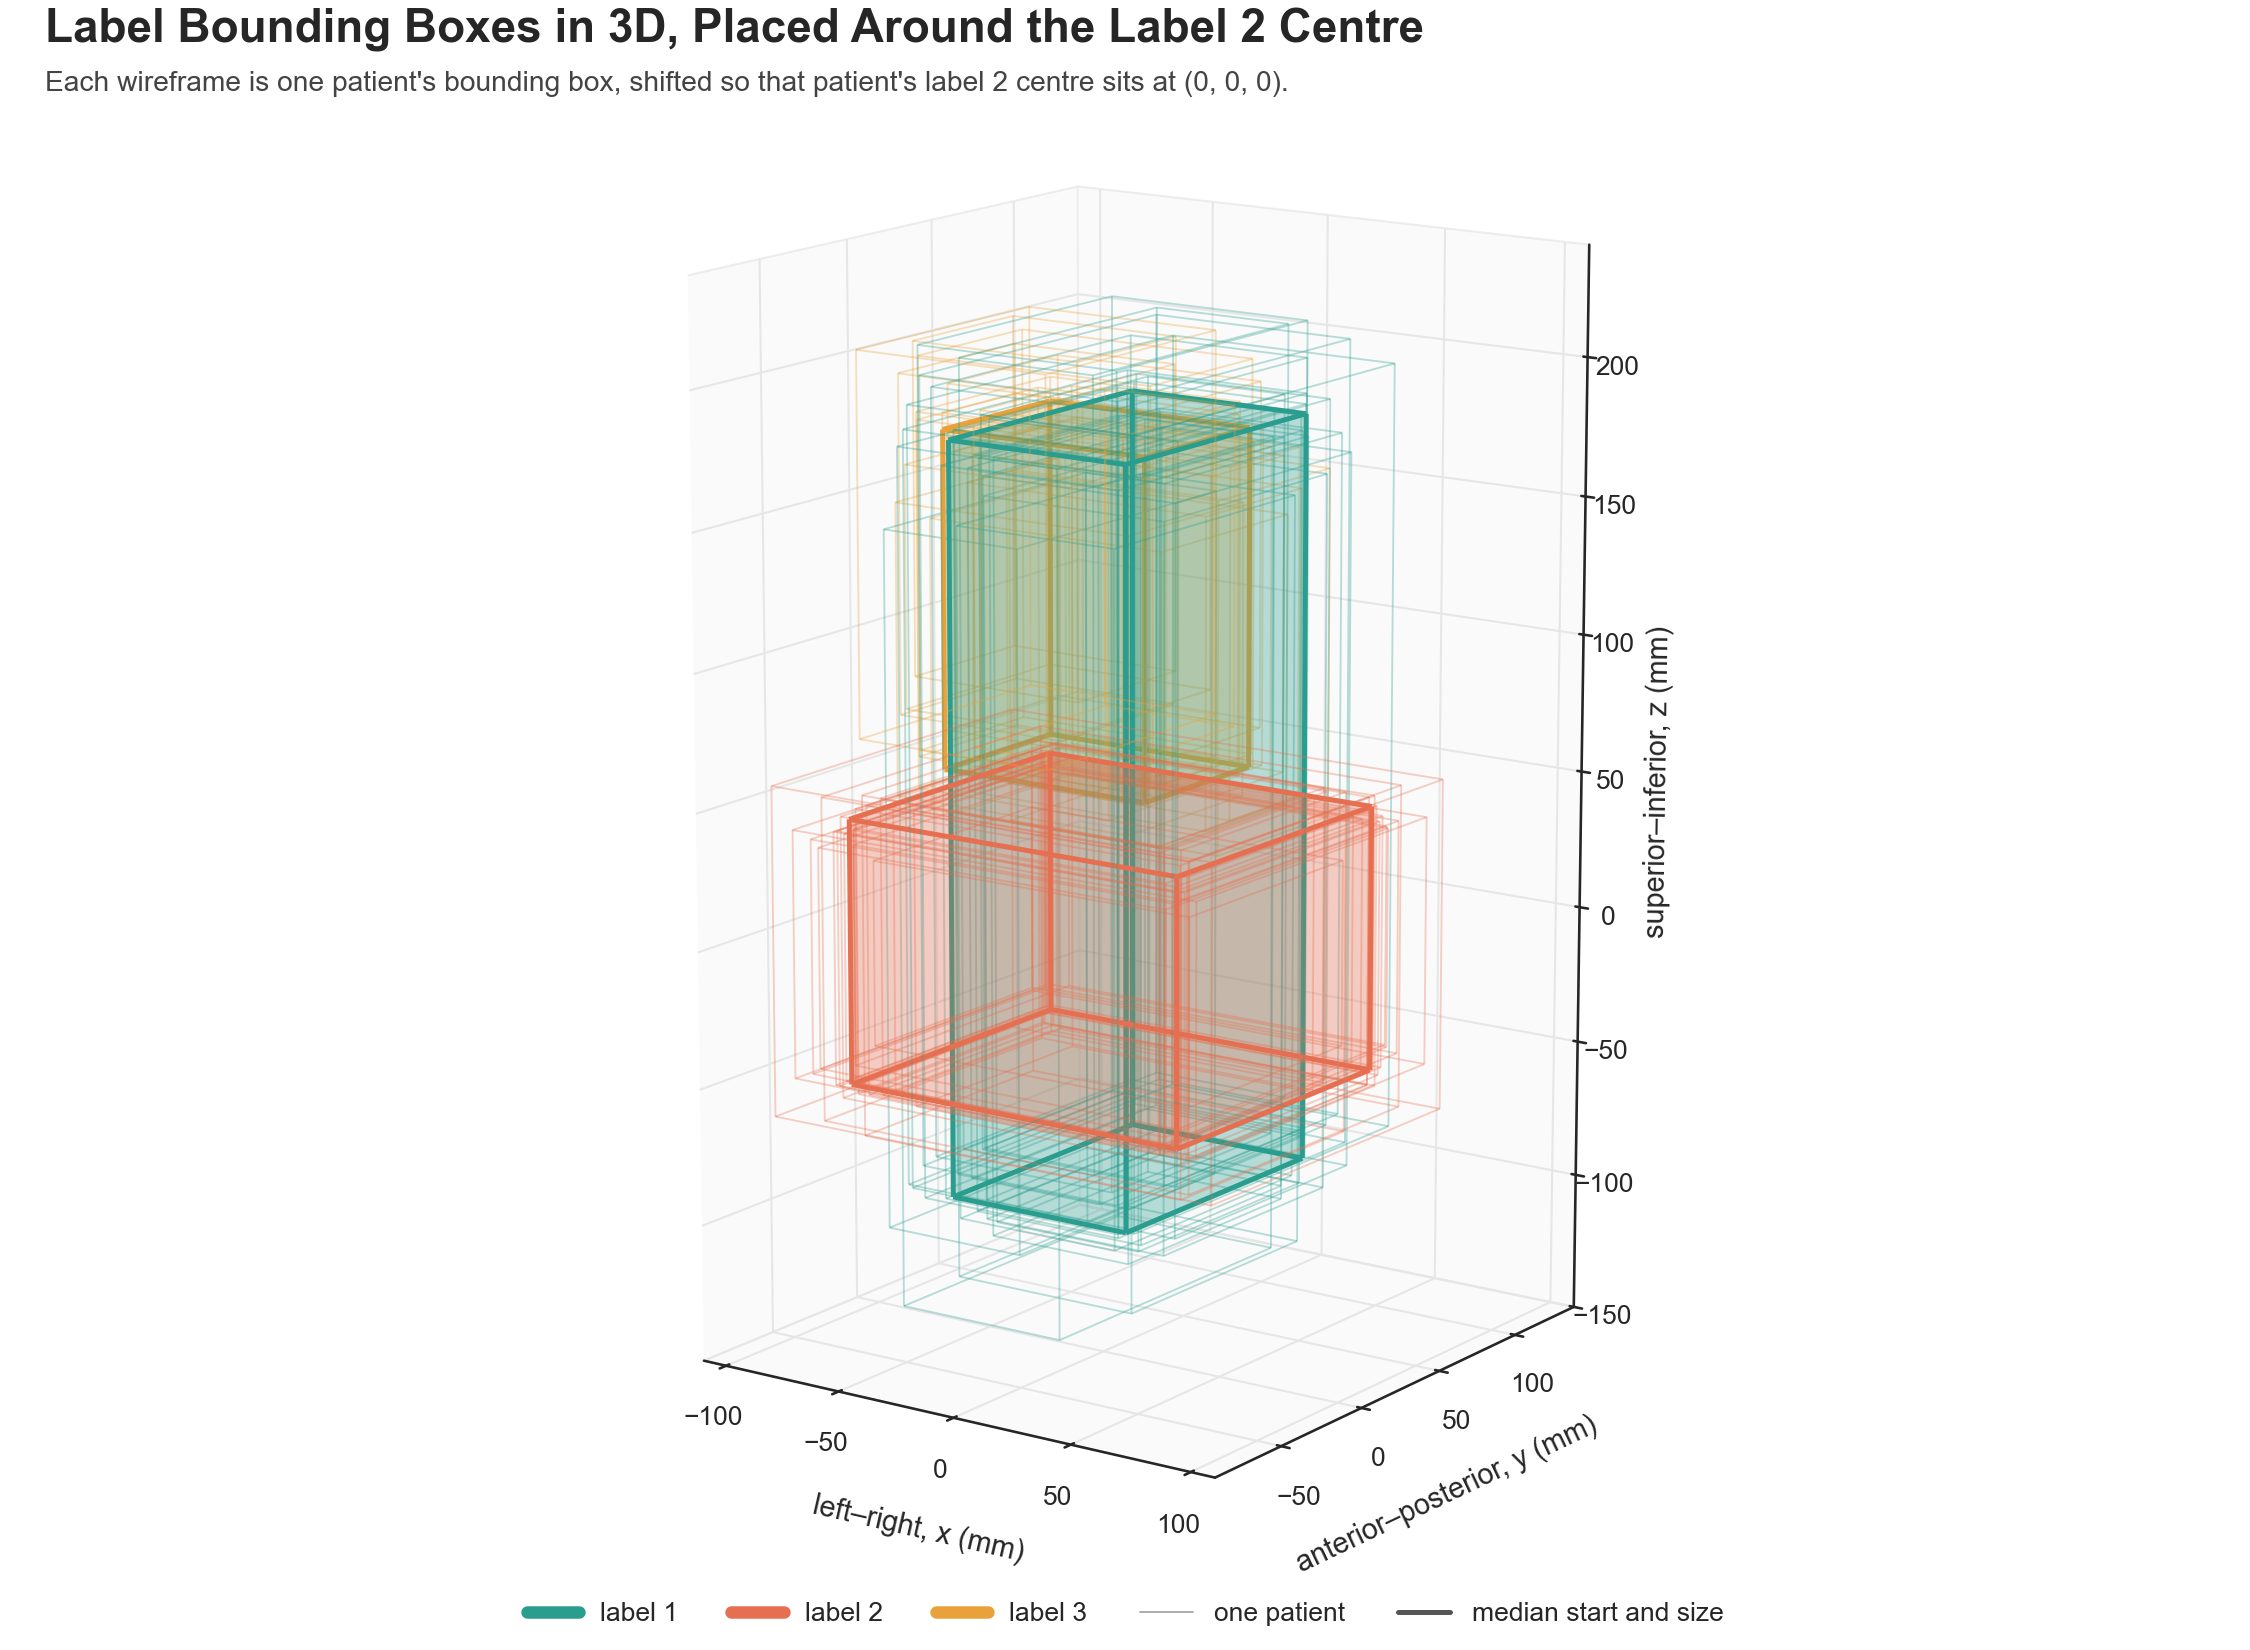
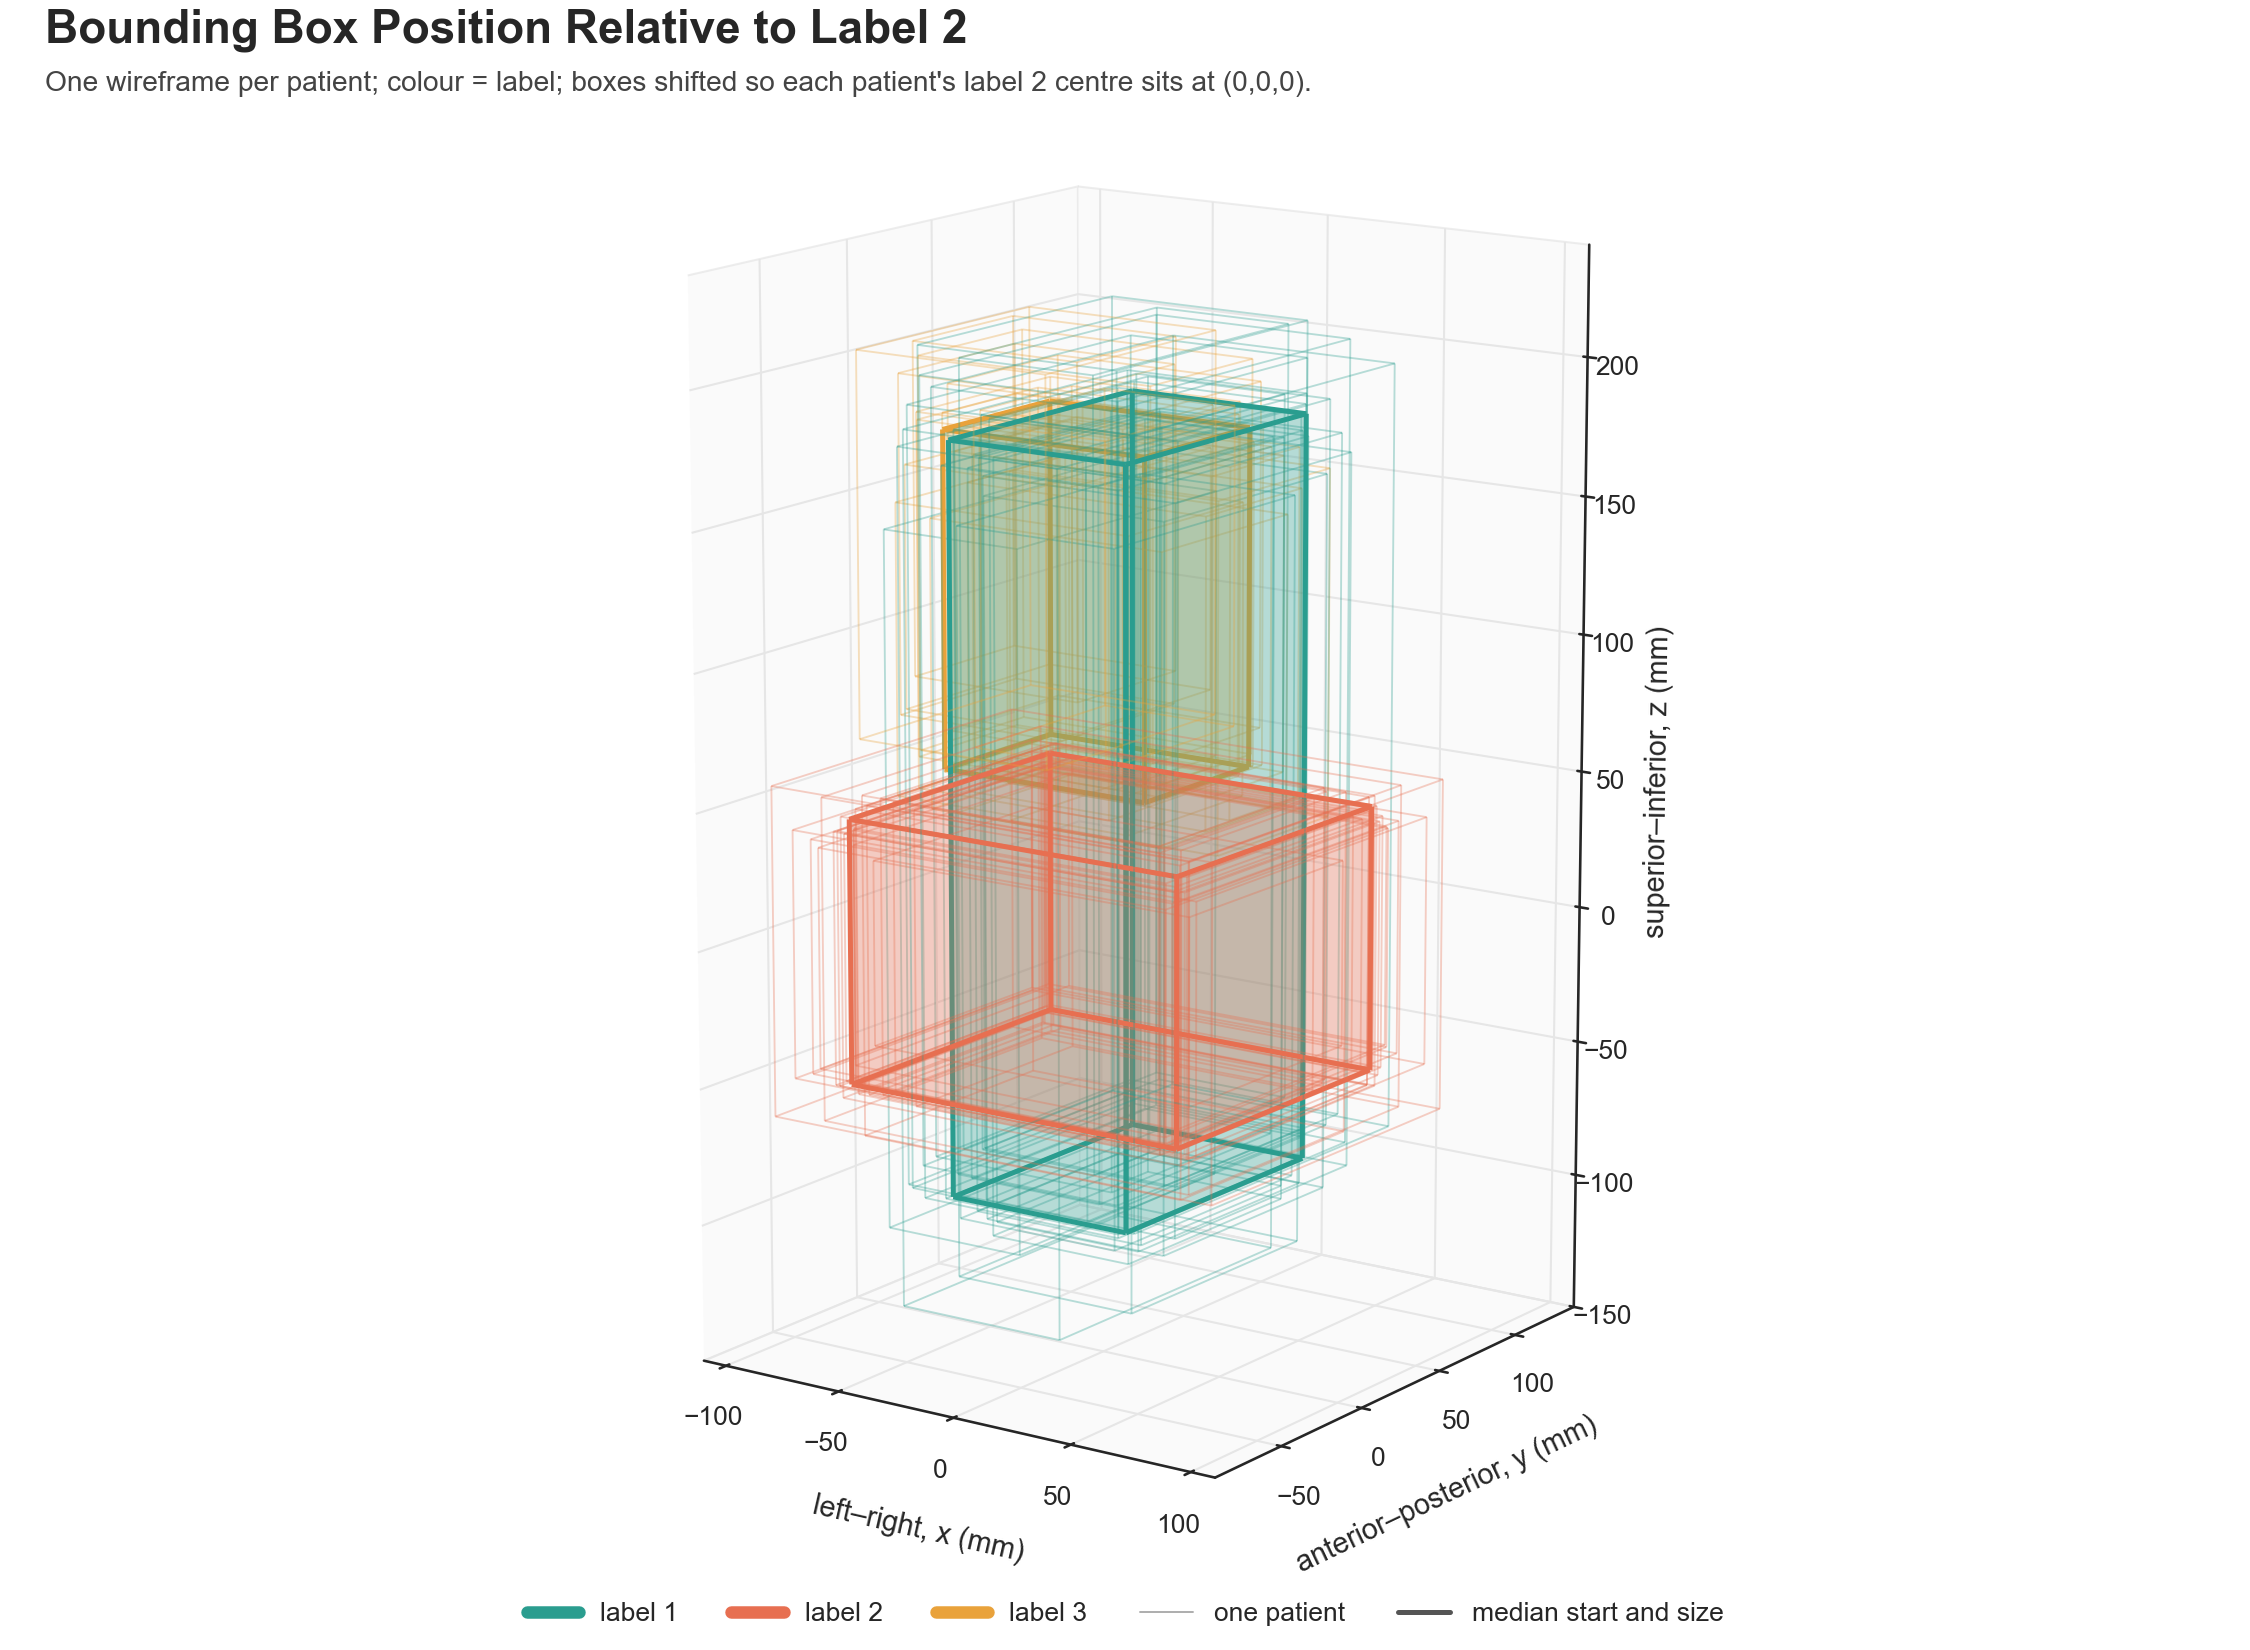
Clarify titles of bounding box, connected components and label pairs figures

Changed region(s): [[0.0311, 0.0, 0.6533, 0.0618]]

diff --git a/dataset_analysis/profile_figures/f09_label_bounding_box.py b/dataset_analysis/profile_figures/f09_label_bounding_box.py
@@ -144,9 +144,9 @@ def size_figure(labels: pd.DataFrame, out: Path) -> None:
     fig.legend(handles=handles, loc="lower center", ncol=2, frameon=False, bbox_to_anchor=(0.5, -0.01))
     header(
         fig,
-        "Label Bounding Boxes in 3D, Drawn Around One Centre",
-        f"Each wireframe is one of {labels.patient.nunique()} patients; all boxes share a centre, so only size and "
-        "shape differ. Same scale in all panels.",
+        "Bounding Box Size per Label",
+        f"One wireframe per patient (n={labels.patient.nunique()}); boxes share a centre so size and shape differ; "
+        "bold = median box.",
         subtitle_y=0.945,
     )
     fig.subplots_adjust(left=0.02, right=0.98, top=0.9, bottom=0.1, wspace=0.05)
@@ -174,8 +174,8 @@ def position_figure(labels: pd.DataFrame, out: Path) -> None:
     fig.legend(handles=handles, loc="lower center", ncol=5, frameon=False)
     header(
         fig,
-        "Label Bounding Boxes in 3D, Placed Around the Label 2 Centre",
-        "Each wireframe is one patient's bounding box, shifted so that patient's label 2 centre sits at (0, 0, 0).",
+        "Bounding Box Position Relative to Label 2",
+        "One wireframe per patient; colour = label; boxes shifted so each patient's label 2 centre sits at (0,0,0).",
         subtitle_y=0.945,
     )
     fig.subplots_adjust(left=0.0, right=1.0, top=0.92, bottom=0.08)

diff --git a/dataset_analysis/profile_figures/f13_label_pairs.py b/dataset_analysis/profile_figures/f13_label_pairs.py
@@ -146,8 +146,8 @@ def main():
     header(
         fig,
         "Contact Between Label Pairs",
-        "Coloured surface: within one voxel of the other label (front view, common scale). "
-        "Strips: shared border area per pair (mm²). Patients ordered by total shared border area.",
+        f"One 3D render per patient (n={pairs.patient.nunique()}), sorted by total shared border area; "
+        "colour = surface within 1 voxel of the other label; strip = shared border area per pair (mm²).",
         0.95,
     )
     out = out_subdir(args.profile_dir, "13_label_pairs") / "label_pairs_contact_3d.png"

diff --git a/dataset_analysis/profile_figures/f12_connected_components.py b/dataset_analysis/profile_figures/f12_connected_components.py
@@ -122,8 +122,8 @@ def main():
     header(
         fig,
         "Connected Components per Label",
-        f"All {len(patients)} patients pooled. Darker = more axial slices (2D rules) or patients (3D rules) with that "
-        "many pieces.",
+        f"All {len(patients)} patients pooled; each cell = % of axial slices (2D rows) or patients (3D rows) with "
+        "that many pieces.",
         subtitle_y=0.9,
     )
     fig.subplots_adjust(left=0.07, right=0.97, top=0.78, bottom=0.14, wspace=0.08)
